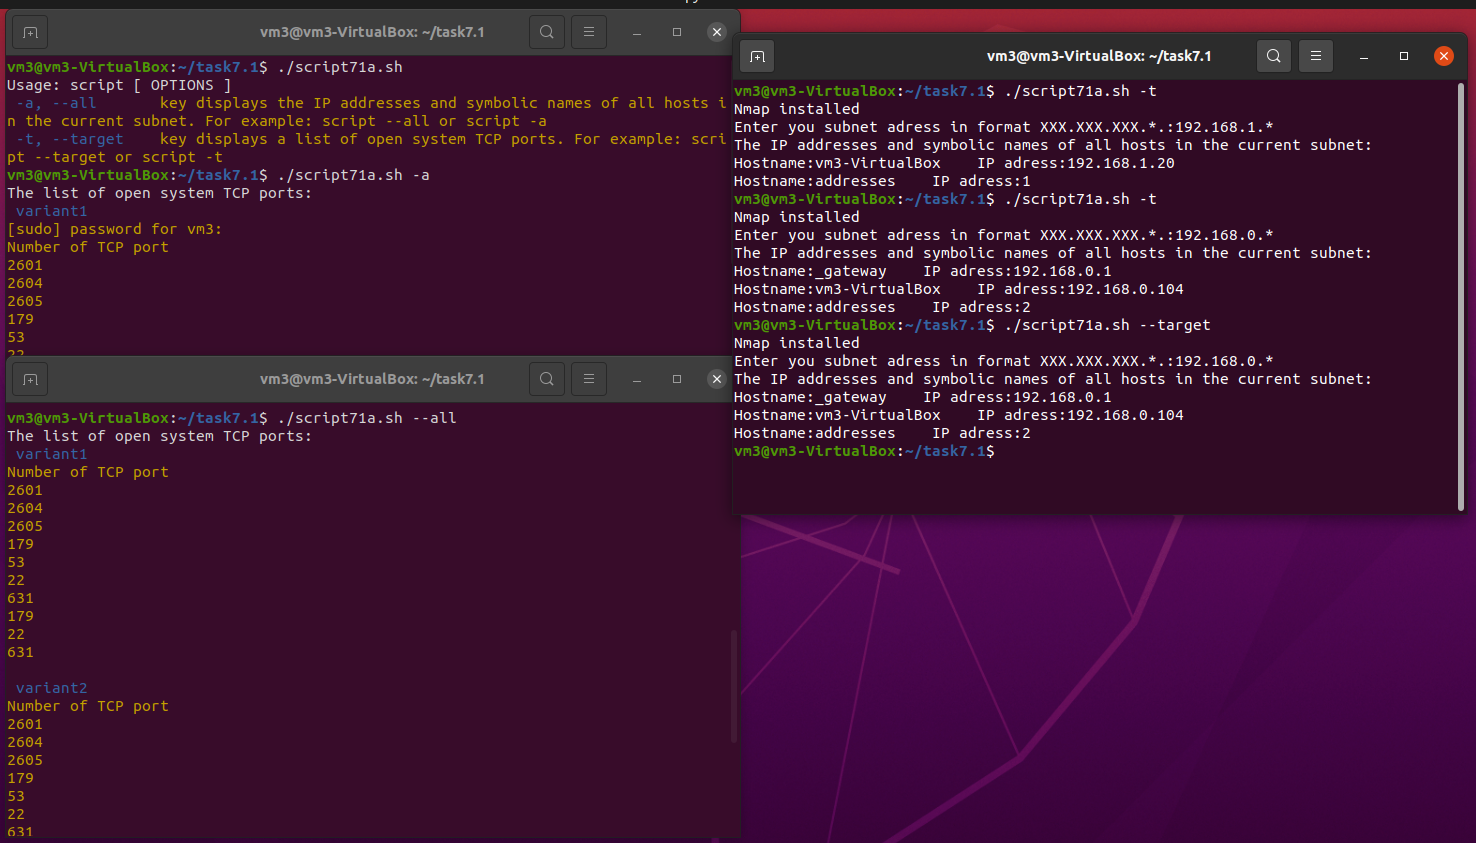
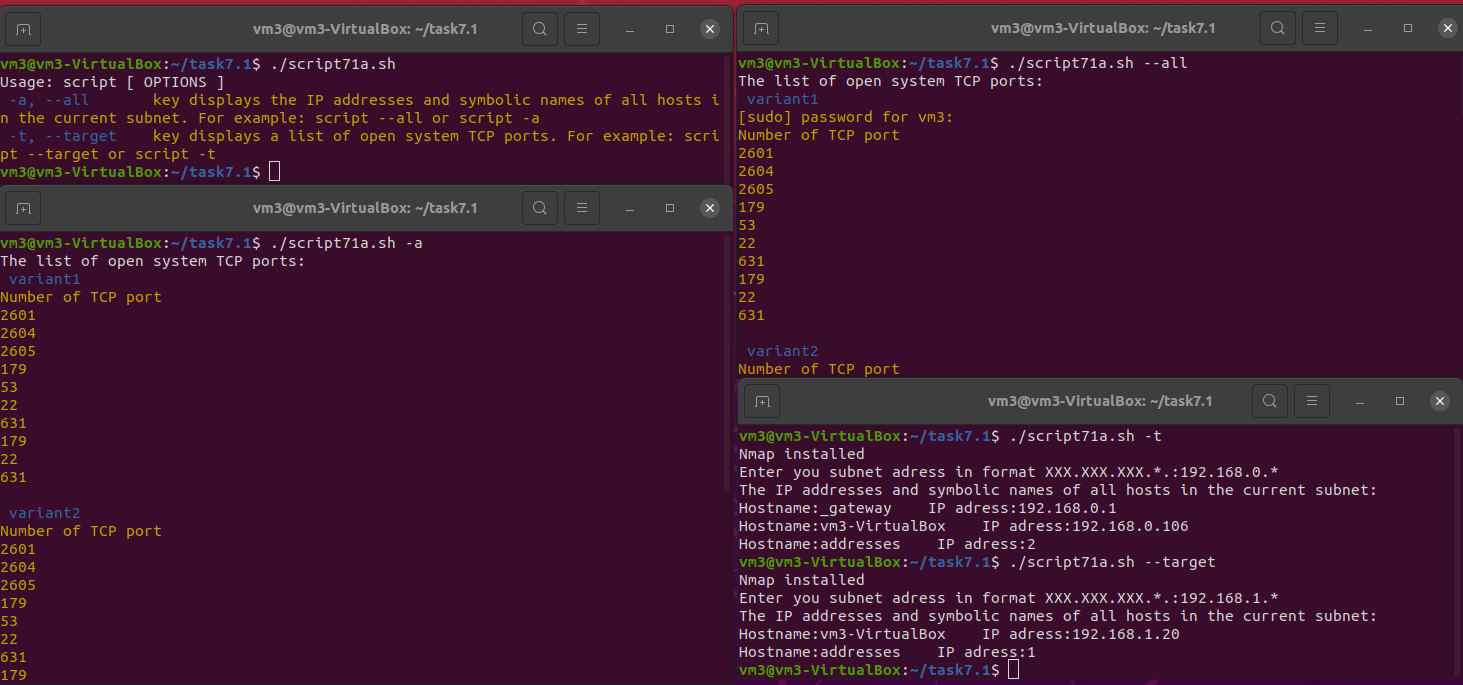
edit readme.md in folder task7.1

diff --git a/m1/task7.1/readme.md b/m1/task7.1/readme.md
@@ -31,7 +31,7 @@ listopen_TCPports() {
     echo -e "\033[34m variant3 \033[33m"
     sudo lsof -nP -iTCP -sTCP:LISTEN | awk 'BEGIN{print "Number of TCP port"} { if (NR >= 2) print $9} END { print "" }' | awk -F: '{print $NF}'
 }
-if [ "$1" == "-t" ] || [ "$1" == "--target" ]; then
+if [ "$1" == "-a" ] || [ "$1" == "--all" ]; then
 #Checking install or no nmap and if not installed its be installed (also can use dpkg -s nmap)
     if [[ -e "/usr/bin/nmap" ]]; then
         echo "Nmap installed"
@@ -48,7 +48,7 @@ if [ "$1" == "-t" ] || [ "$1" == "--target" ]; then
         esac
     fi
     list_IP $2
-elif [ "$1" == "-a" ] || [ "$1" == "--all" ]; then
+elif [ "$1" == "-t" ] || [ "$1" == "--target" ]; then
     listopen_TCPports
 fi
 
